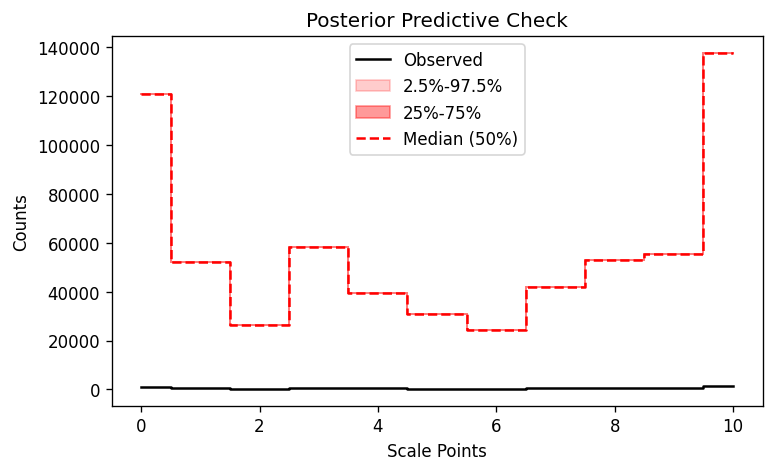
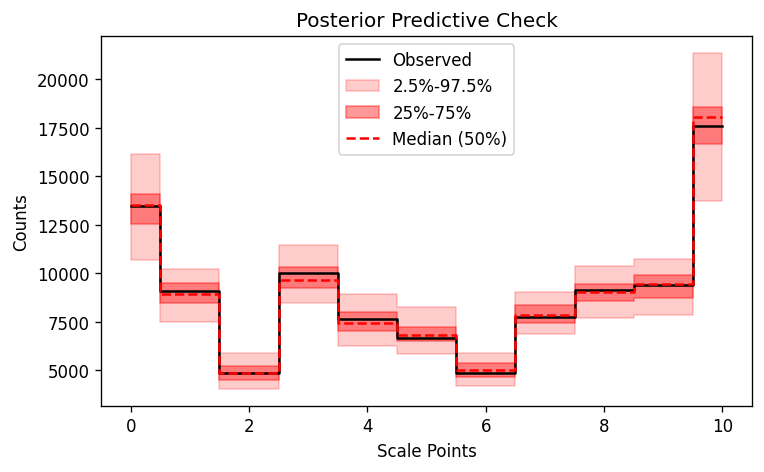
stable SVI

diff --git a/digitaltwins/model.py b/digitaltwins/model.py
@@ -9,6 +9,78 @@ from jax import numpy as jnp
 
 from . import main, util
 
+
+####################
+# HELPER FUNCTIONS #
+####################
+
+def f_sample_K(K: int,
+               Y_u: dict,
+               Y_q: jnp.ndarray,
+               z: jnp.ndarray,
+               cutpoints: dict,
+               beta: jnp.ndarray,
+               phi_nn: callable,
+               N: int,
+               J_u: int,
+               J_u_dict: dict,
+               J_u_idx_start: dict,
+               J_u_idx_end: dict,
+               L: int,
+               T: int,
+               scale_term: float):
+    
+    # priors, cont.
+    with npr.handlers.scale(scale=scale_term):
+        with npr.plate('J_u', J_u):
+            alpha = npr.sample('alpha_' + str(K), dist.Normal().expand([T]).to_event(1))
+        
+        with npr.plate('L', L, dim=-2), npr.plate('T', T, dim=-1):
+            if phi_nn is not None:
+                concen_phi, rate_phi = phi_nn(Y_q)
+                phi = npr.sample('phi_' + str(K), dist.Gamma(concen_phi.T, rate_phi.T))
+            else:
+                phi = npr.sample('phi_' + str(K), dist.Gamma(1.0, 1.0))
+                
+
+    # broadcasting to dim(N,J,T)
+    alpha = jnp.repeat(alpha[None,:,:], repeats=N, axis=0)
+    betaphi = (1/L) * jnp.repeat(jnp.expand_dims(jnp.square(beta) @ phi, 0), repeats=N, axis=0)
+    z = jnp.repeat(jnp.expand_dims(z, 1), repeats=J_u, axis=1)
+    
+    assert alpha.shape == betaphi.shape and alpha.shape == z.shape
+
+    # likelihood
+    u = alpha + z * betaphi     # dim(N,J,T)
+    for h, y in Y_u.items():
+        f_sample_Y(h, N, K, T, y, u, cutpoints, J_u_dict, J_u_idx_start, J_u_idx_end)
+
+
+
+def f_sample_Y(h: str, 
+               N:int, 
+               K: int, 
+               T: int, 
+               Y_u: jnp.ndarray,
+               Y_u_star: jnp.ndarray, 
+               cutpoints: dict,
+               J_dict: dict, 
+               idx_start: dict, 
+               idx_end: dict):
+    
+    # heterogeneous cutoffs
+    c = cutpoints[h]
+    c = jnp.expand_dims(c, [0,2])
+    
+    with npr.plate('N', N, dim=-3), \
+         npr.plate('J_' + h, J_dict[h], dim=-2), \
+         npr.plate('T', T, dim=-1):
+        
+        npr.sample('Y_u_' + str(K) + '_' + h, 
+                    dist.OrderedLogistic(predictor=Y_u_star[:,idx_start[h]:idx_end[h],:], 
+                                         cutpoints=c),
+                    obs=Y_u)
+        
 ##########
 # MODELS #
 ##########
@@ -642,76 +714,7 @@ def model_linear_homo(
 
 
 
-####################
-# HELPER FUNCTIONS #
-####################
 
-def f_sample_K(K: int,
-               Y_u: dict,
-               Y_q: jnp.ndarray,
-               z: jnp.ndarray,
-               cutpoints: dict,
-               beta: jnp.ndarray,
-               phi_nn: callable,
-               N: int,
-               J_u: int,
-               J_u_dict: dict,
-               J_u_idx_start: dict,
-               J_u_idx_end: dict,
-               L: int,
-               T: int,
-               scale_term: float):
-    
-    # priors, cont.
-    with npr.handlers.scale(scale=scale_term):
-        with npr.plate('J_u', J_u):
-            alpha = npr.sample('alpha_' + str(K), dist.Normal().expand([T]).to_event(1))
-        
-        with npr.plate('L', L, dim=-2), npr.plate('T', T, dim=-1):
-            if phi_nn is not None:
-                concen_phi, rate_phi = phi_nn(Y_q)
-                phi = npr.sample('phi_' + str(K), dist.Gamma(concen_phi.T, rate_phi.T))
-            else:
-                phi = npr.sample('phi_' + str(K), dist.Gamma(1.0, 1.0))
-                
-
-    # broadcasting to dim(N,J,T)
-    alpha = jnp.repeat(alpha[None,:,:], repeats=N, axis=0)
-    betaphi = (1/L) * jnp.repeat(jnp.expand_dims(jnp.square(beta) @ phi, 0), repeats=N, axis=0)
-    z = jnp.repeat(jnp.expand_dims(z, 1), repeats=J_u, axis=1)
-    
-    assert alpha.shape == betaphi.shape and alpha.shape == z.shape
-
-    # likelihood
-    u = alpha + z * betaphi     # dim(N,J,T)
-    for h, y in Y_u.items():
-        f_sample_Y(h, N, K, T, y, u, cutpoints, J_u_dict, J_u_idx_start, J_u_idx_end)
-
-
-
-def f_sample_Y(h: str, 
-               N:int, 
-               K: int, 
-               T: int, 
-               Y_u: jnp.ndarray,
-               Y_u_star: jnp.ndarray, 
-               cutpoints: dict,
-               J_dict: dict, 
-               idx_start: dict, 
-               idx_end: dict):
-    
-    # heterogeneous cutoffs
-    c = cutpoints[h]
-    c = jnp.expand_dims(c, [0,2])
-    
-    with npr.plate('N', N, dim=-3), \
-         npr.plate('J_' + h, J_dict[h], dim=-2), \
-         npr.plate('T', T, dim=-1):
-        
-        npr.sample('Y_u_' + str(K) + '_' + h, 
-                    dist.OrderedLogistic(predictor=Y_u_star[:,idx_start[h]:idx_end[h],:], 
-                                         cutpoints=c),
-                    obs=Y_u)
         
 
 

diff --git a/digitaltwins/util.py b/digitaltwins/util.py
@@ -53,7 +53,60 @@ from . import main
 #         mu = self.mu_layer(x)
 #         sig = jnp.exp(self.sig_layer(x))
 #         return mu, sig
-        
+
+
+import jax
+import jax.numpy as jnp
+from jax.nn import tanh, softplus
+
+def init_layer_params(input_dim, output_dim, key):
+    """Initialize parameters for a single dense layer."""
+    w_key, b_key = jax.random.split(key)
+    weights = jax.random.normal(w_key, shape=(input_dim, output_dim)) * jnp.sqrt(1 / input_dim)
+    biases = jax.random.normal(b_key, shape=(output_dim,))
+    return weights, biases
+
+def init_ideal_point_nn(input_dim, hidden_dim1, hidden_dim2, output_dim, key):
+    """Initialize all parameters for the IdealPointNN."""
+    keys = jax.random.split(key, num=4)
+    params = {
+        "layer": init_layer_params(input_dim, hidden_dim1, keys[0]),
+        "mu_layer": init_layer_params(hidden_dim1, output_dim, keys[1]),
+        "sig_layer": init_layer_params(hidden_dim1, output_dim, keys[2]),
+        "norm_layer": {
+            "scale": jnp.ones(hidden_dim1),
+            "bias": jnp.zeros(hidden_dim1),
+        },
+    }
+    return params
+
+def layer_norm(x, scale, bias):
+    """Apply layer normalization."""
+    mean = jnp.mean(x, axis=-1, keepdims=True)
+    variance = jnp.mean((x - mean) ** 2, axis=-1, keepdims=True)
+    normalized = (x - mean) / jnp.sqrt(variance + 1e-6)
+    return scale * normalized + bias
+
+def forward_ideal_point_nn(x, params):
+    """Forward pass through the IdealPointNN."""
+    # Layer normalization
+    norm_params = params["norm_layer"]
+    x = layer_norm(x, norm_params["scale"], norm_params["bias"])
+    
+    # Hidden layer
+    w, b = params["layer"]
+    x = tanh(jnp.dot(x, w) + b)
+    
+    # Output layers for concentration and rate
+    mu_w, mu_b = params["mu_layer"]
+    sig_w, sig_b = params["sig_layer"]
+    
+    concentration = jnp.dot(x, mu_w) + mu_b
+    rate = softplus(jnp.dot(x, sig_w) + sig_b)
+    
+    return concentration, rate
+
+
 class PhiNN(nn.Module):
     hidden_size1: int
     hidden_size2: int
@@ -73,8 +126,8 @@ class PhiNN(nn.Module):
         # x = nn.tanh(self.layer1(x))
         # x = nn.tanh(self.layer2(x))
         x = nn.tanh(self.layer(x))
-        concentration = jnp.exp(self.mu_layer(x))
-        rate = jnp.exp(self.sig_layer(x))
+        concentration = jnp.log1p(jnp.exp(self.sig_layer(x)))
+        rate = jnp.log1p(jnp.exp(self.sig_layer(x)))
         return concentration, rate
 
 class IdealPointNN(nn.Module):
@@ -97,7 +150,7 @@ class IdealPointNN(nn.Module):
         # x = nn.tanh(self.layer2(x))
         x = nn.tanh(self.layer(x))
         concentration = self.mu_layer(x)
-        rate = jnp.exp(self.sig_layer(x))
+        rate = jnp.log1p(jnp.exp(self.sig_layer(x)))
         return concentration, rate
     
 
@@ -129,7 +182,7 @@ class IdealPointLinear(nn.Module):
     def __call__(self, x):
         x = self.norm_layer(x)
         mu = self.mu_layer(x)
-        sig = jnp.exp(self.sig_layer(x))
+        sig = jnp.log1p(jnp.exp(self.sig_layer(x)))
         return mu, sig
 
 

diff --git a/digitaltwins/sim.py b/digitaltwins/sim.py
@@ -57,8 +57,8 @@ class PhiNN(nn.Module):
         # x = nn.tanh(self.layer1(x))
         # x = nn.tanh(self.layer2(x))
         x = nn.tanh(self.layer(x))
-        concentration = jnp.exp(self.mu_layer(x))
-        rate = jnp.exp(self.sig_layer(x))
+        concentration = jnp.log1p(jnp.exp(self.sig_layer(x)))
+        rate = jnp.log1p(jnp.exp(self.sig_layer(x)))
         return concentration, rate
 
 class IdealPointNN(nn.Module):
@@ -84,7 +84,7 @@ class IdealPointNN(nn.Module):
         # x = nn.tanh(self.layer3(x))
         x = nn.tanh(self.layer(x))
         concentration = self.mu_layer(x)
-        rate = jnp.exp(self.sig_layer(x))
+        rate = jnp.log1p(jnp.exp(self.sig_layer(x)))
         return concentration, rate
     
 # Function to generate synthetic data

diff --git a/digitaltwins/main.py b/digitaltwins/main.py
@@ -37,6 +37,7 @@ def main():
     # target_model = model.model_full
     if args.method == 'svi':
         target_model = model.model_full
+        # target_model = model.model_mcmc
     if args.method == 'mcmc':
         target_model = model.model_mcmc
     
@@ -321,7 +322,7 @@ def estimate_mcmc(rng_key, target_model, args):
     }
 
     # ----------- 3) Define NUTS / MCMC -----------
-    init_strategy=infer.initialization.init_to_median()
+    init_strategy=infer.initialization.init_to_feasible()
     nuts_kernel = infer.NUTS(target_model, init_strategy=init_strategy)
     
     mcmc = infer.MCMC(
